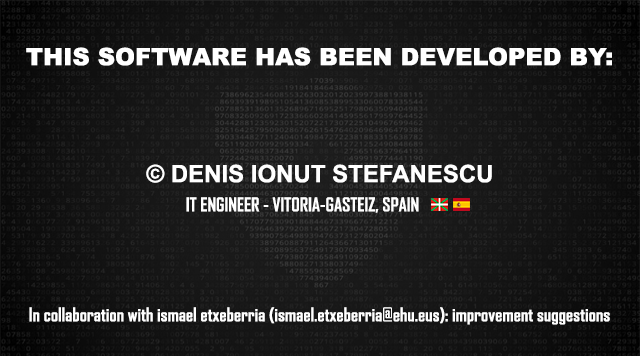
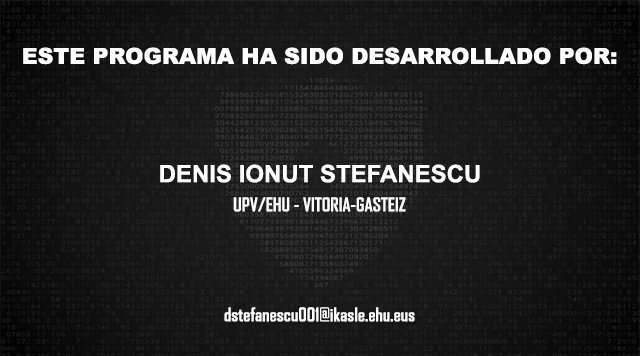
ventana de créditos actualizada

diff --git a/BlockchainTFG_criptomoneda/src/vista/VentanaCreditos.java b/BlockchainTFG_criptomoneda/src/vista/VentanaCreditos.java
@@ -55,7 +55,7 @@ public class VentanaCreditos extends JDialog {
 		panelCreditos.setLayout(new FlowLayout());
 		panelCreditos.setBorder(new EmptyBorder(5, 5, 5, 5));
 		getContentPane().add(panelCreditos, BorderLayout.CENTER);
-		panelCreditos.setBackground(VentanaCreditos.class.getResource("/resources/creditsEN.png"));
+		panelCreditos.setBackground(VentanaCreditos.class.getResource("/resources/credits.png"));
 
 		// Centrar ventana
 		Dimension screenSize = Toolkit.getDefaultToolkit().getScreenSize();
